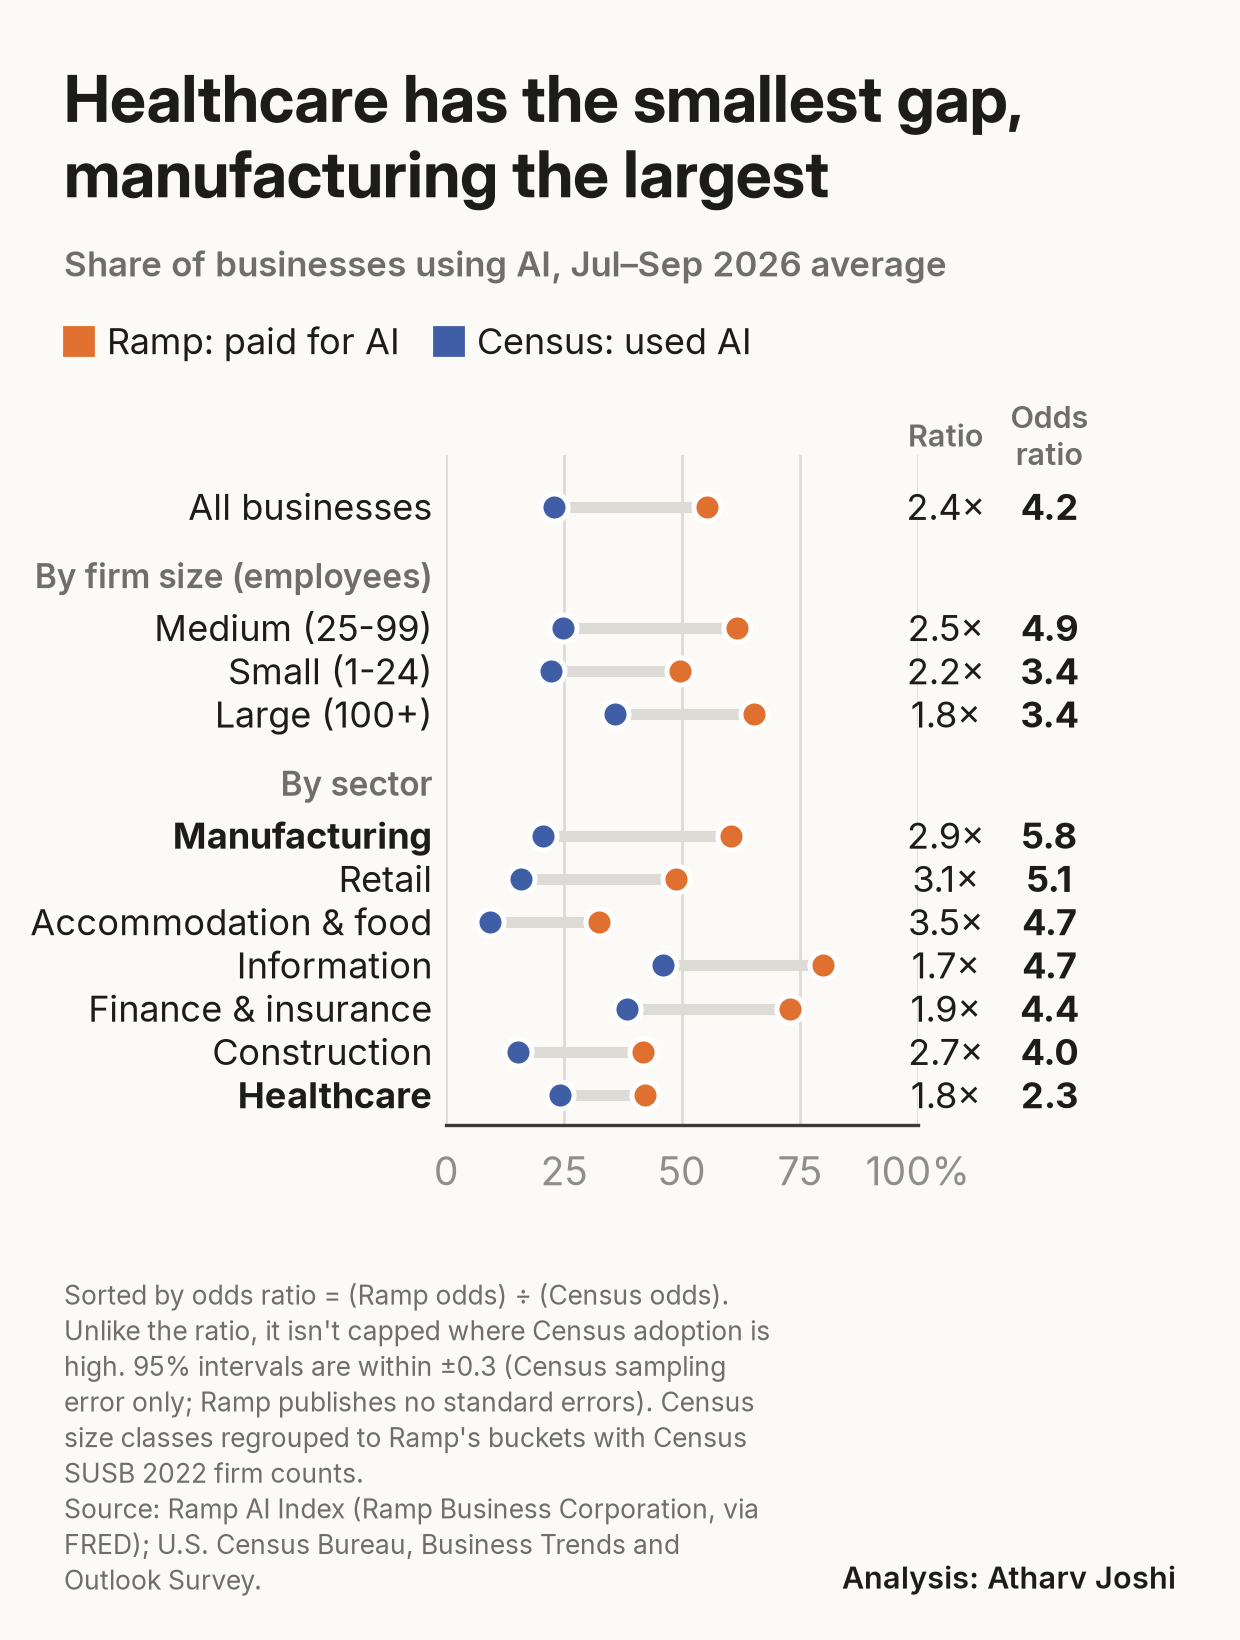
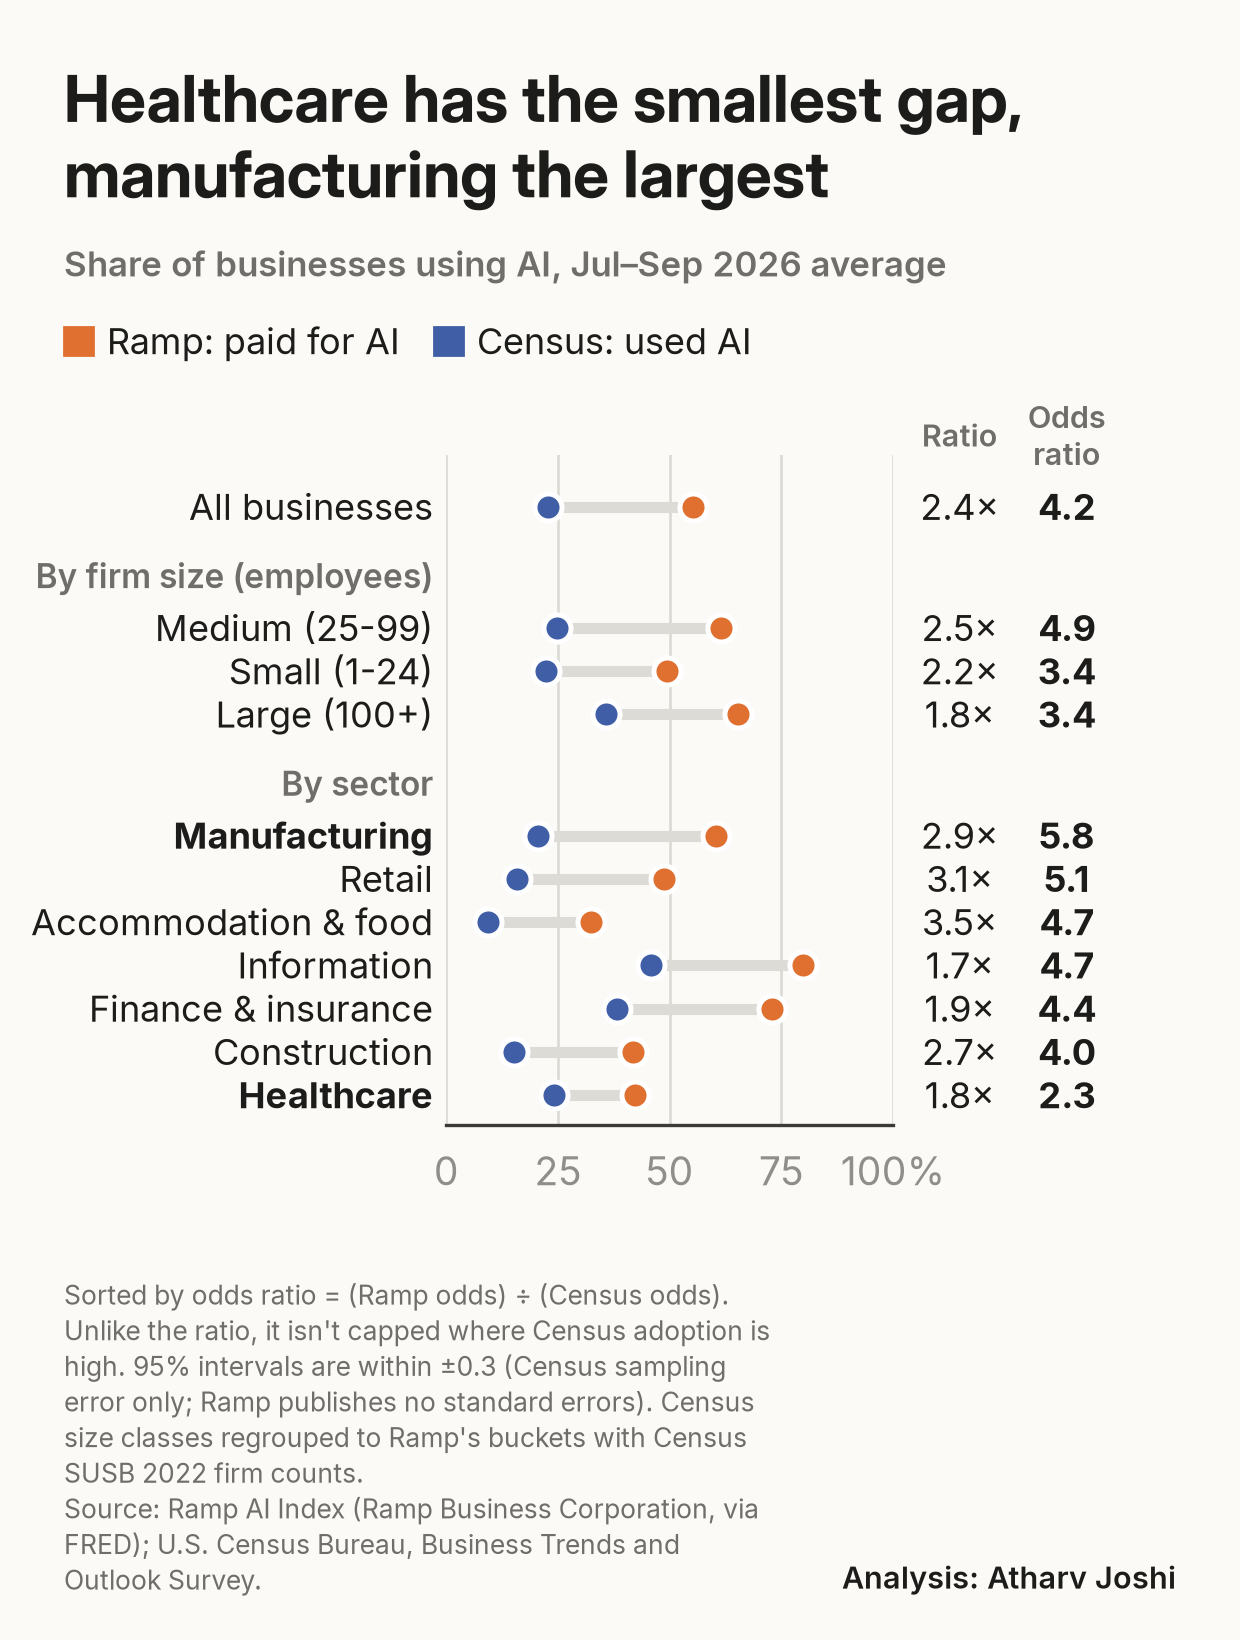
Chart 2: move ratio columns clear of the plot area

diff --git a/analysis.py b/analysis.py
@@ -113,10 +113,10 @@ def chart_groups(comp):
               "(Census sampling error only; Ramp publishes no standard errors). Census size "
               "classes regrouped to Ramp's buckets with Census SUSB 2022 firm counts.",
               SOURCE, credit=CREDIT)
-    ax = ex.axes(left=0.36, right=0.74, bottom_pad=0.5)
+    ax = ex.axes(left=0.36, right=0.72, bottom_pad=0.5)
     ax.grid(False)
     ax.grid(axis="x", color=GRID, lw=1)
-    cols = {"ratio": 106, "odds": 128}        # data-x positions of the two number columns
+    cols = {"ratio": 115, "odds": 139}        # data-x positions of the two number columns
     for yy, r in rows:
         ax.plot([r.census_rate, r.ramp_rate], [yy, yy], color=GRID, lw=4, zorder=1,
                 solid_capstyle="round")
@@ -134,6 +134,7 @@ def chart_groups(comp):
         ax.text(cols[key], y + 0.15, label, ha="center", va="center", fontsize=11, color=SUB,
                 weight="semibold")
     ax.set_xlim(0, 100)
+    ax.set_xticks([0, 25, 50, 75, 100])
     ax.set_ylim(-0.7, y - 0.3)
     ax.set_yticks([])
     pct_ticks(ax, "x")
